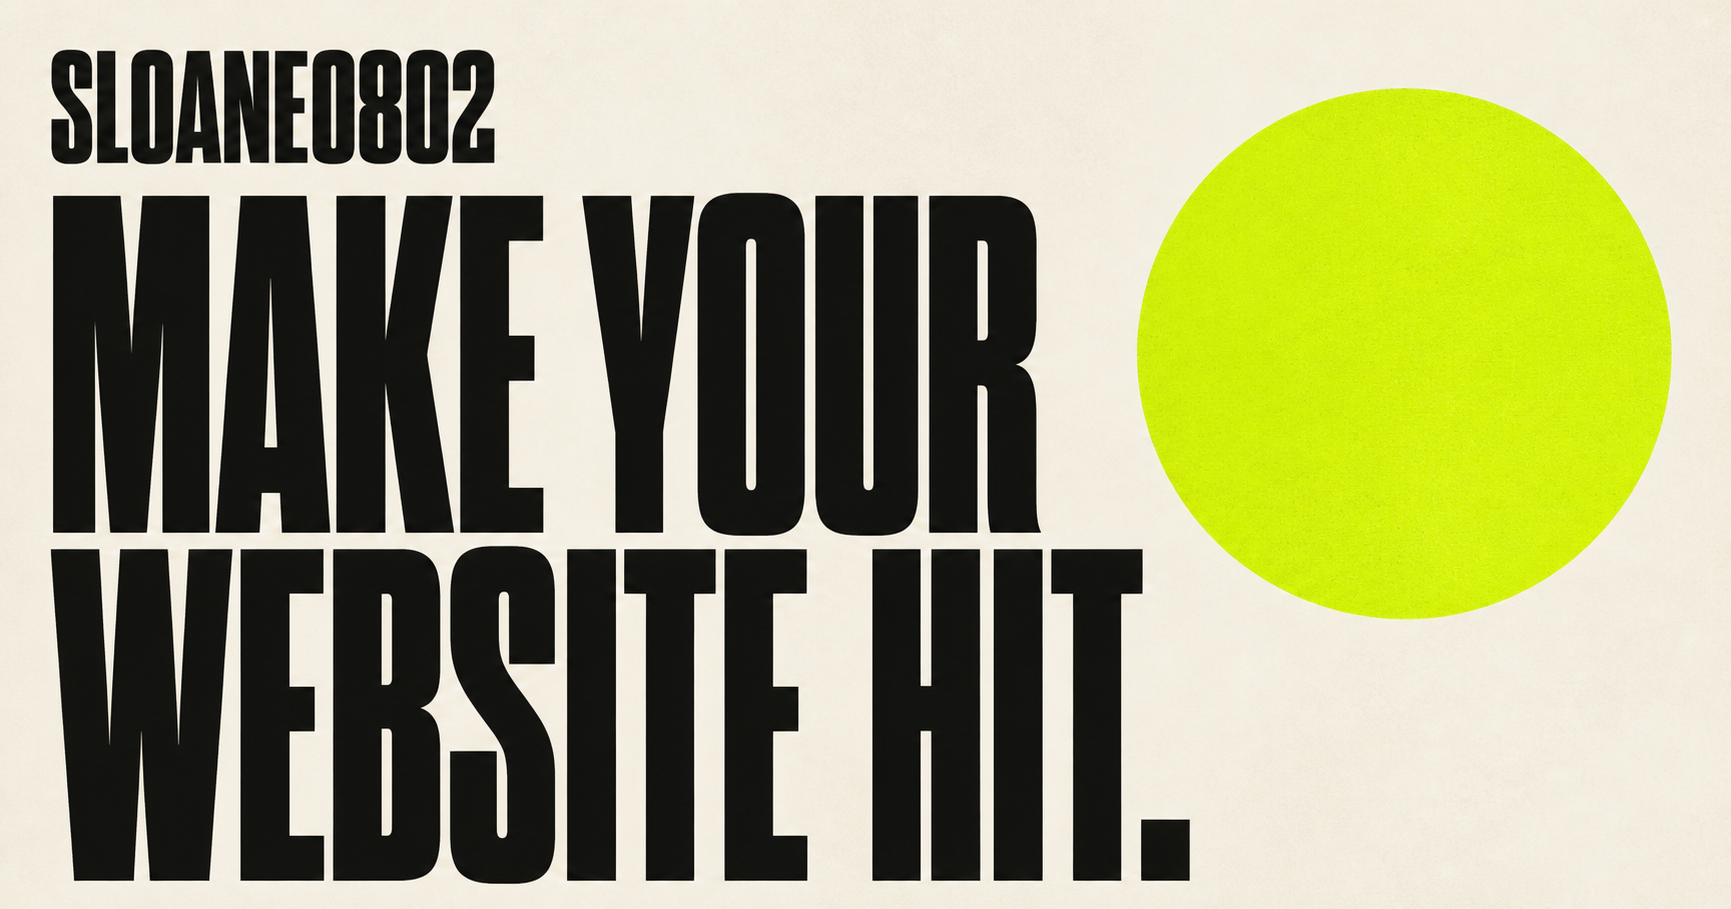
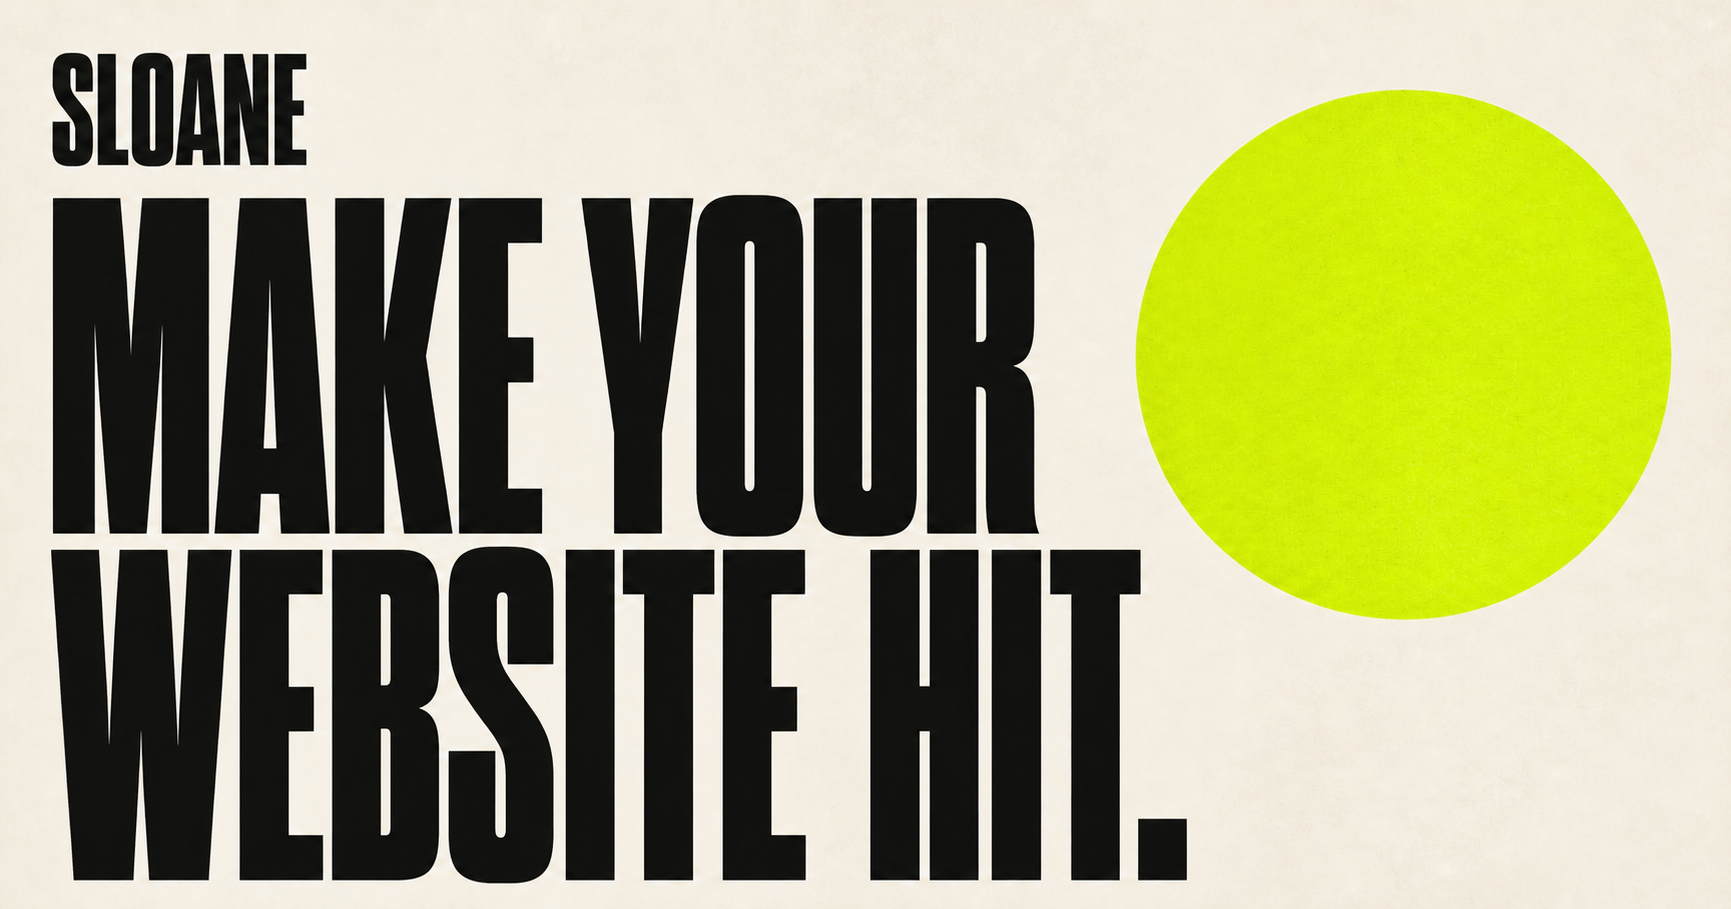
Rename landing brand to SLOANE

diff --git a/index.html b/index.html
@@ -3,14 +3,14 @@
   <head>
     <meta charset="utf-8" />
     <meta name="viewport" content="width=device-width, initial-scale=1" />
-    <title>SLOANE0802 — Web Design &amp; Media Studio</title>
+    <title>SLOANE — Web Design &amp; Media Studio</title>
     <meta
       name="description"
       content="Sharp digital identities and high-performance websites for people doing work worth noticing."
     />
     <link rel="canonical" href="https://sloane.mackinnonbrothers.com/" />
     <meta property="og:type" content="website" />
-    <meta property="og:title" content="SLOANE0802 — Web Design &amp; Media Studio" />
+    <meta property="og:title" content="SLOANE — Web Design &amp; Media Studio" />
     <meta
       property="og:description"
       content="Sharp digital identities and high-performance websites for people doing work worth noticing."
@@ -18,7 +18,7 @@
     <meta property="og:url" content="https://sloane.mackinnonbrothers.com/" />
     <meta property="og:image" content="https://sloane.mackinnonbrothers.com/og.png" />
     <meta name="twitter:card" content="summary_large_image" />
-    <meta name="twitter:title" content="SLOANE0802 — Web Design &amp; Media Studio" />
+    <meta name="twitter:title" content="SLOANE — Web Design &amp; Media Studio" />
     <meta
       name="twitter:description"
       content="Sharp digital identities and high-performance websites for people doing work worth noticing."
@@ -30,9 +30,7 @@
   <body>
     <main class="minimal-site" id="top">
       <header class="minimal-nav">
-        <a class="minimal-logo" href="#top" aria-label="SLOANE0802 home">
-          SLOANE<span>0802</span>
-        </a>
+        <a class="minimal-logo" href="#top" aria-label="SLOANE home">SLOANE</a>
         <p>Independent digital studio</p>
         <a class="minimal-nav-cta" href="#contact">
           Start a project <span aria-hidden="true">↘</span>
@@ -87,18 +85,18 @@
                 Send project details <span aria-hidden="true">↗</span>
               </button>
             </form>
-            <a class="minimal-email" href="mailto:hello@sloane0802.com">
-              Or email hello@sloane0802.com
-            </a>
+            <p class="minimal-intake-note">
+              Private WebsiteDeals intake connection comes next
+            </p>
           </div>
 
           <div class="minimal-success" id="inquiry-success" role="status" hidden>
             <span class="minimal-success-mark" aria-hidden="true">✓</span>
             <p class="minimal-form-label">Inquiry ready</p>
-            <h2>Let's make it happen.</h2>
+            <h2>Project noted.</h2>
             <p>
-              This prototype has captured the full contact flow. The live inbox
-              connection is the next backend step.
+              This local preview captured the details, but nothing was sent.
+              Next, we can connect it to your private WebsiteDeals intake.
             </p>
             <button id="send-another" type="button">Send another inquiry</button>
           </div>
@@ -108,7 +106,7 @@
       <footer class="minimal-footer">
         <span>Ontario, Canada</span>
         <span>Working everywhere</span>
-        <span>&copy; 2026 SLOANE0802</span>
+        <span>&copy; 2026 SLOANE</span>
       </footer>
     </main>
   </body>

diff --git a/styles.css b/styles.css
@@ -66,8 +66,7 @@ body {
 }
 
 .minimal-logo,
-.minimal-nav-cta,
-.minimal-email {
+.minimal-nav-cta {
   color: inherit;
   text-decoration: none;
 }
@@ -78,10 +77,6 @@ body {
   font-size: clamp(1rem, 1.6vw, 1.35rem);
   font-weight: 900;
   letter-spacing: -0.08em;
-}
-
-.minimal-logo span {
-  color: var(--minimal-acid);
 }
 
 .minimal-nav p {
@@ -197,7 +192,7 @@ body {
 }
 
 .minimal-contact::before {
-  content: "CONTACT / 0802";
+  content: "CONTACT / SLOANE";
   position: absolute;
   top: 0;
   right: 0;
@@ -298,14 +293,12 @@ body {
   box-shadow: 5px 5px 0 var(--minimal-black);
 }
 
-.minimal-email {
+.minimal-intake-note {
   display: block;
   margin-top: 1rem;
   color: #4f4a52;
   font-size: 0.65rem;
   text-align: center;
-  text-decoration: underline;
-  text-underline-offset: 0.25rem;
 }
 
 .minimal-success {
